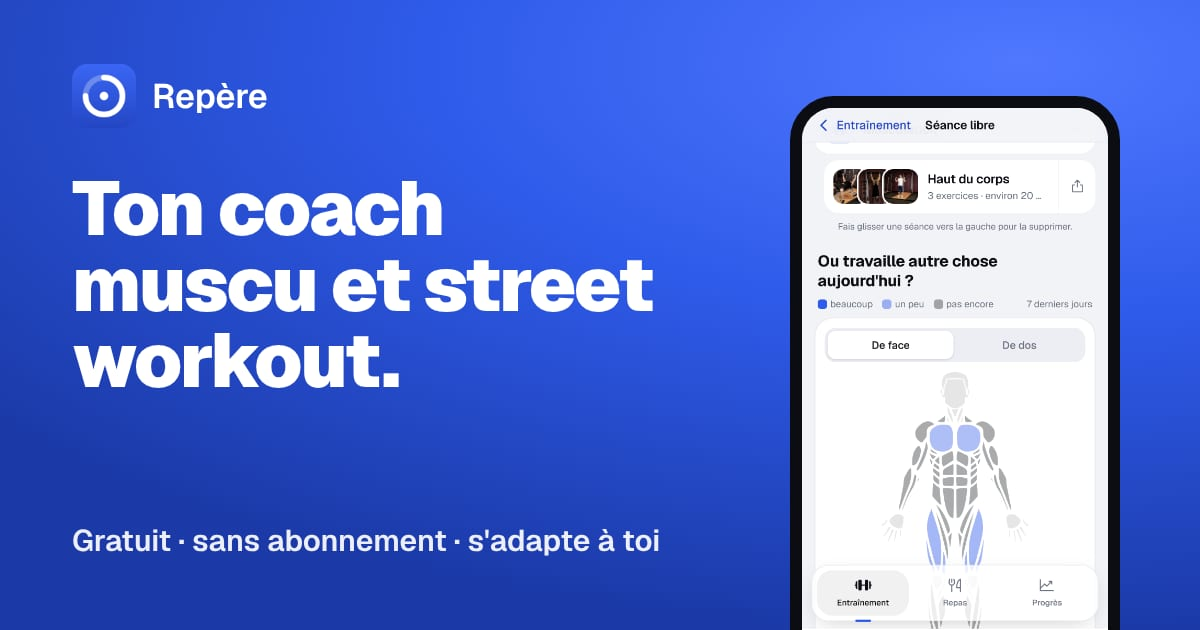
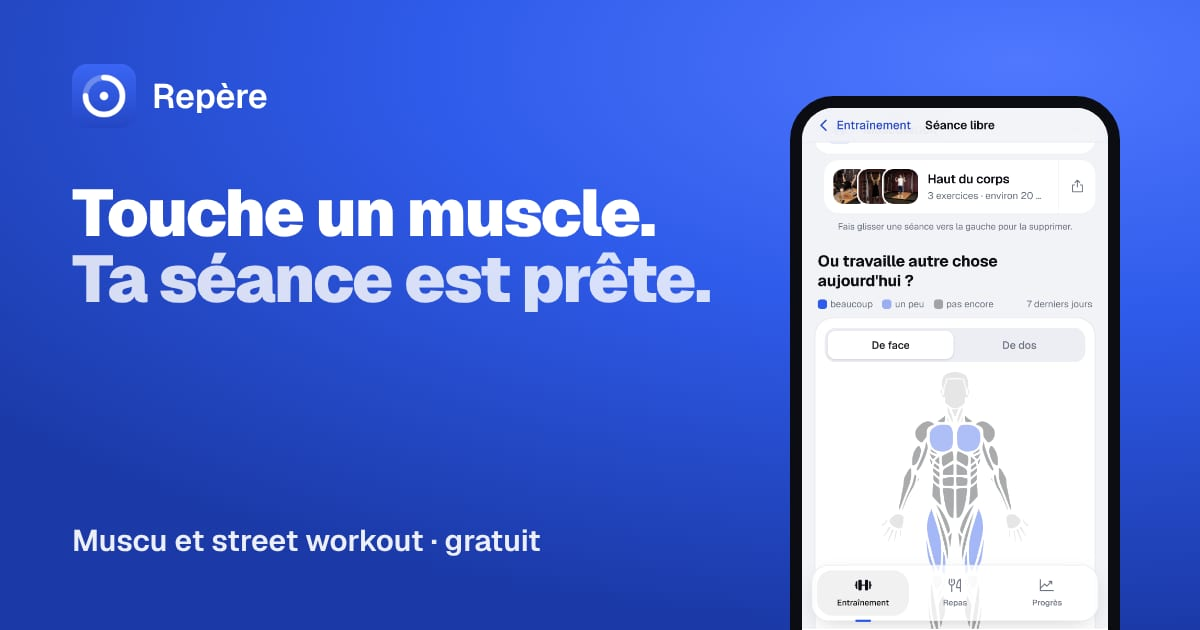
Accroche : « Touche un muscle. Ta séance est prête. » (accueil, aperçu de partage, image)
Claude-Session: https://claude.ai/code/session_01BxJGnhW63a6fpFLoPD1ANU

Changed region(s): [[0.0617, 0.2714, 0.6167, 0.6333], [0.0617, 0.8444, 0.555, 0.9048]]

diff --git a/web/app/layout.tsx b/web/app/layout.tsx
@@ -20,19 +20,19 @@ const chiffres = localFont({
 
 /* Adresse publique : aperçus de partage (WhatsApp, Instagram…) et référencement. */
 const SITE = (process.env.NEXT_PUBLIC_SITE_URL || "https://repere-soz5.onrender.com").trim();
-const ACCROCHE = "Gratuit, sans abonnement, il s'adapte à toi : touche les muscles que tu veux travailler, Repère crée ta séance et fait monter tes charges au bon moment.";
+const ACCROCHE = "Quels exercices, combien de séries, quel poids : Repère décide avec toi, et ajoute du poids quand tu es prêt. Muscu et street workout, gratuit.";
 
 export const metadata: Metadata = {
   metadataBase: new URL(SITE),
-  title: { default: "Repère · ton coach muscu et street workout", template: "%s · Repère" },
+  title: { default: "Repère · Touche un muscle, ta séance est prête", template: "%s · Repère" },
   description: ACCROCHE,
   openGraph: {
     type: "website", locale: "fr_FR", siteName: "Repère", url: "/",
-    title: "Repère · ton coach muscu et street workout",
+    title: "Repère · Touche un muscle, ta séance est prête",
     description: ACCROCHE,
-    images: [{ url: "/og.jpg", width: 1200, height: 630, alt: "Repère, ton coach muscu et street workout" }],
+    images: [{ url: "/og.jpg", width: 1200, height: 630, alt: "Repère : touche un muscle, ta séance est prête" }],
   },
-  twitter: { card: "summary_large_image", title: "Repère · ton coach muscu et street workout", description: ACCROCHE, images: ["/og.jpg"] },
+  twitter: { card: "summary_large_image", title: "Repère · Touche un muscle, ta séance est prête", description: ACCROCHE, images: ["/og.jpg"] },
   applicationName: "Repère",
   appleWebApp: { capable: true, title: "Repère", statusBarStyle: "black-translucent" },
   icons: { icon: "/icon-192.png", apple: "/apple-touch-icon.png" },

diff --git a/web/components/repere/vitrine.tsx b/web/components/repere/vitrine.tsx
@@ -28,9 +28,9 @@ export function Vitrine({ onCommencer, onCompte }: { onCommencer: () => void; on
           <LogoTuile className="size-9" />{tr("Repère")}
           <button onClick={onCompte} className="ml-auto text-[14px] font-semibold opacity-90">{tr("J'ai déjà un compte")}</button>
         </div>
-        <h1 className="mt-8 text-[40px] leading-[1.02] font-black tracking-[-0.03em]">{tr("Ton coach muscu et street workout.")}</h1>
+        <h1 className="mt-8 text-[35px] leading-[1.06] font-black tracking-[-0.03em]">{tr("Touche un muscle.")}<span className="block opacity-80">{tr("Ta séance est prête.")}</span></h1>
         <p className="mt-3.5 text-[16.5px] leading-relaxed opacity-90">
-          {tr("Gratuit, sans abonnement, il s'adapte à toi : touche les muscles que tu veux travailler, Repère crée ta séance et fait monter tes charges au bon moment.")}
+          {tr("Quels exercices, combien de séries, quel poids : Repère décide avec toi, et ajoute du poids quand tu es prêt.")}
         </p>
         <Button size="xl" onClick={onCommencer} className="mt-6 w-full bg-white text-plate-ink hover:bg-white/90">{tr("Commencer gratuitement")}<ArrowRightIcon /></Button>
         <p className="mt-3 text-center text-[13.5px] font-medium opacity-90">{tr("Pas d'App Store : ajoute-la à ton écran d'accueil en 2 gestes")}</p>
